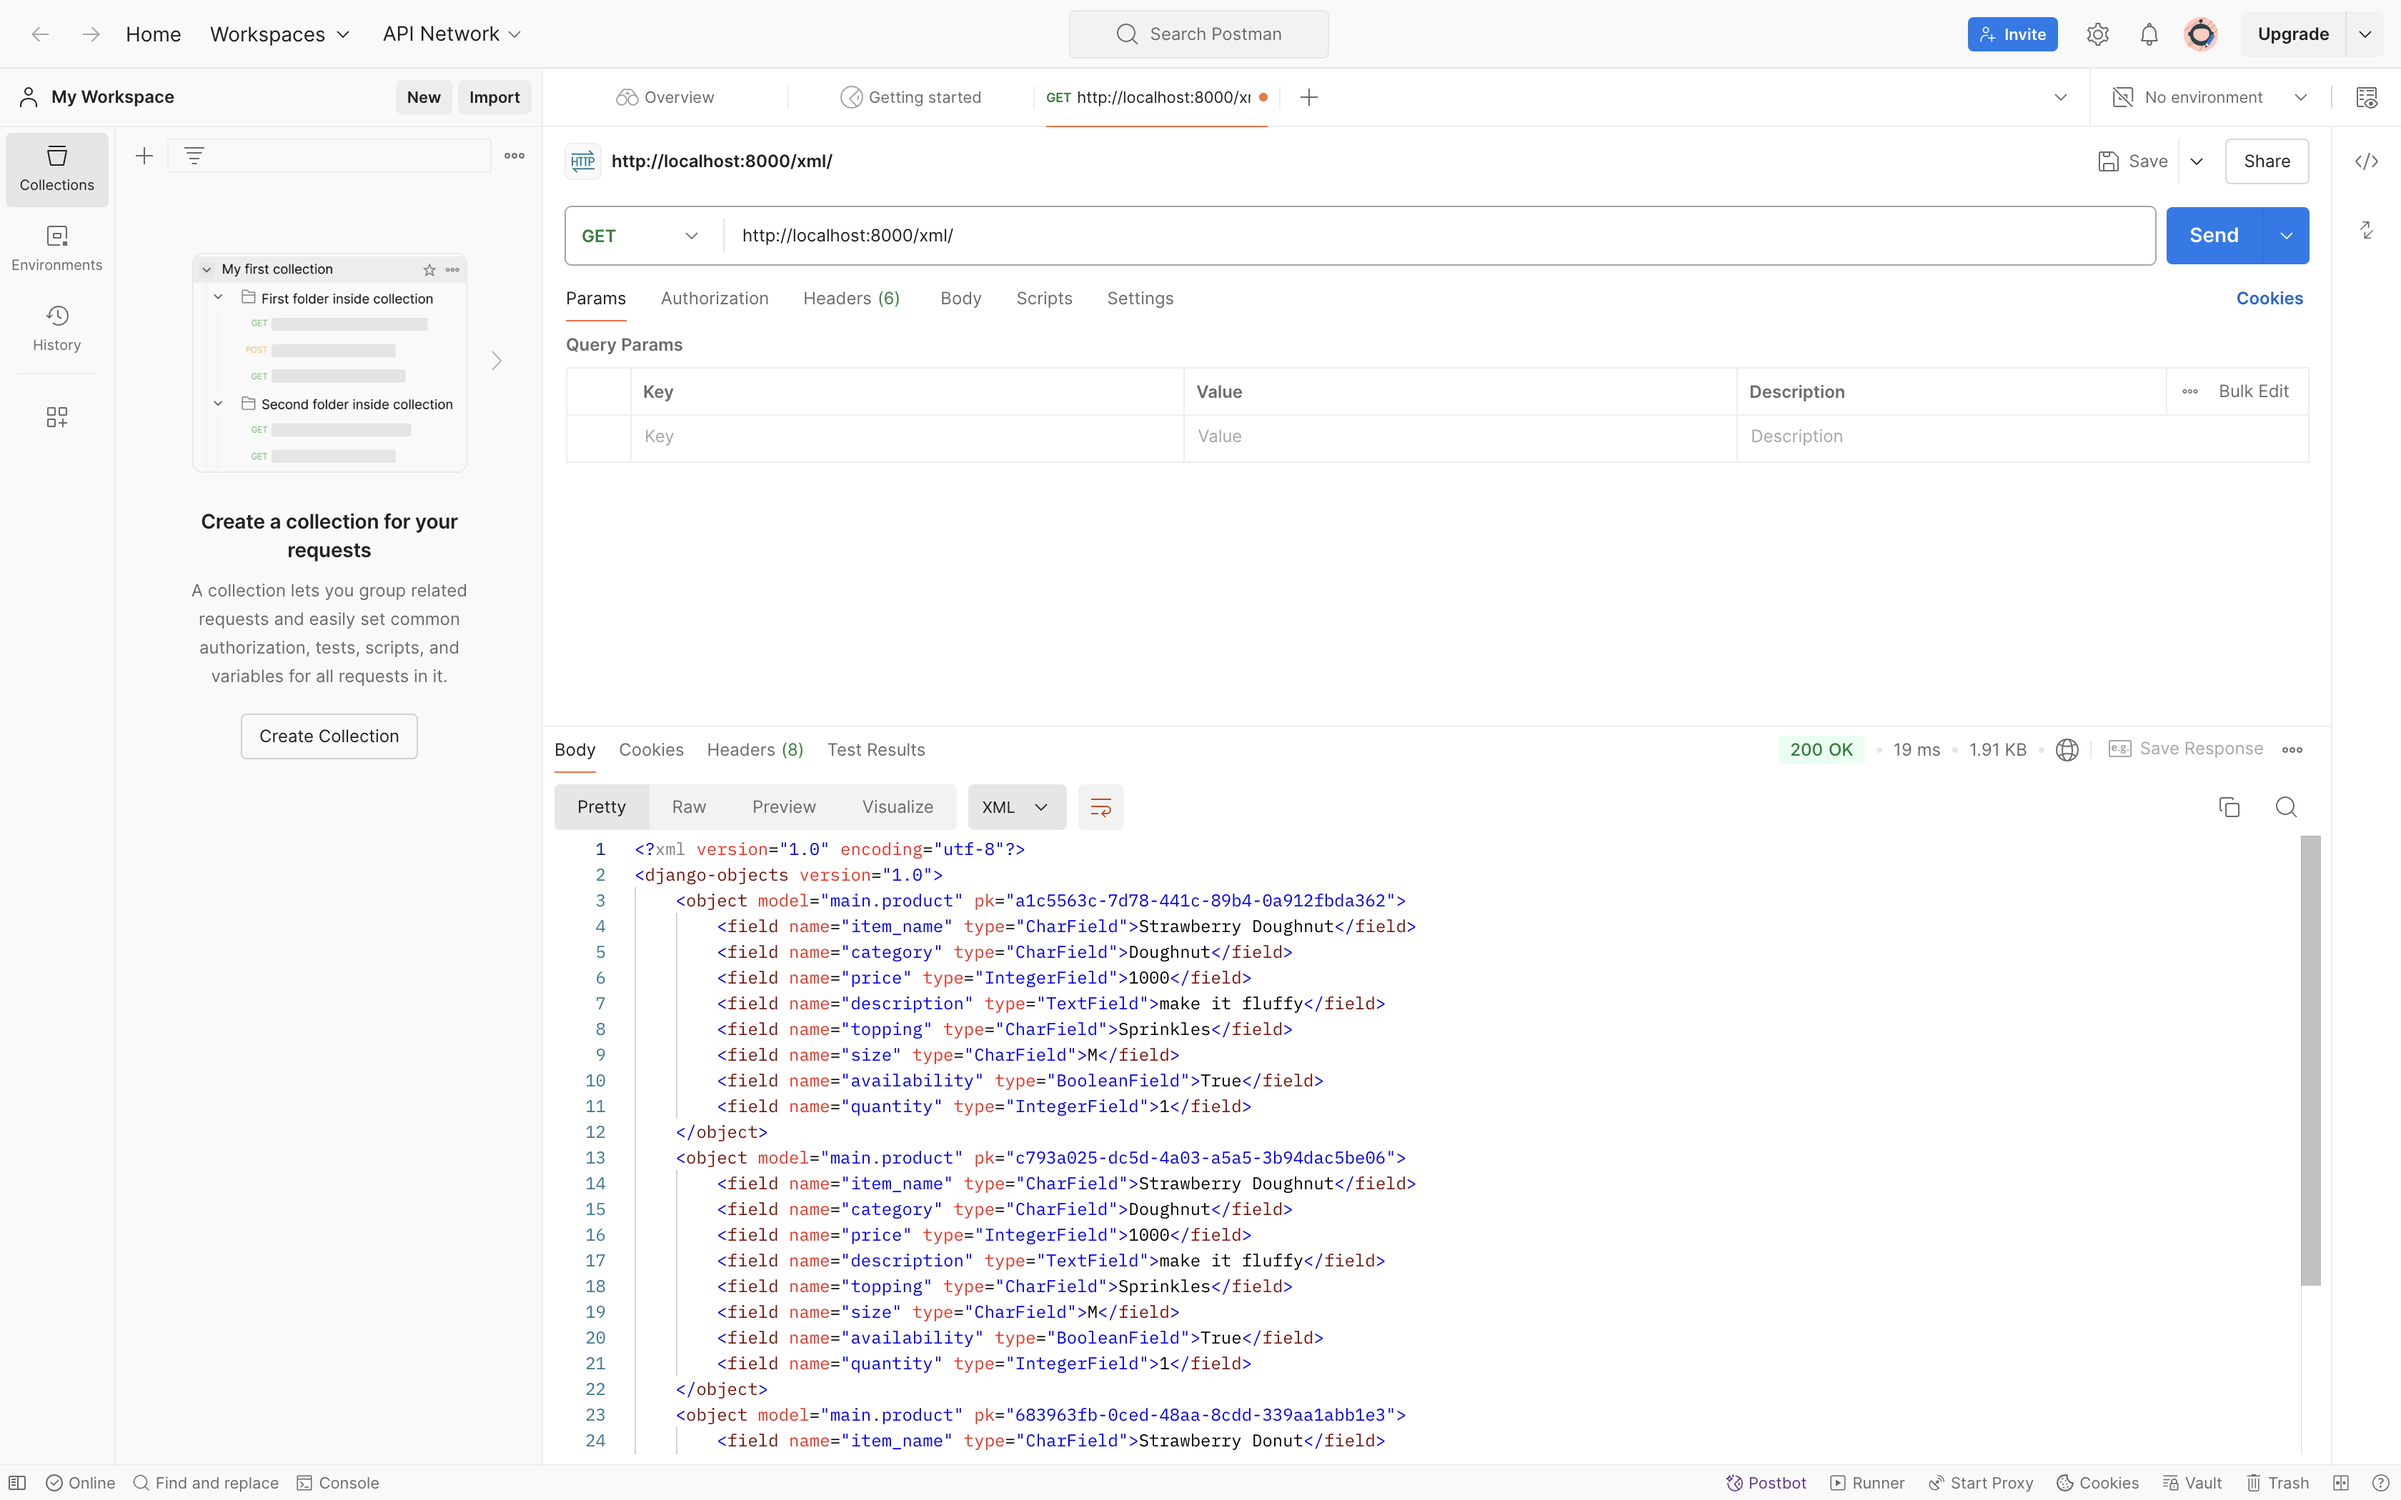
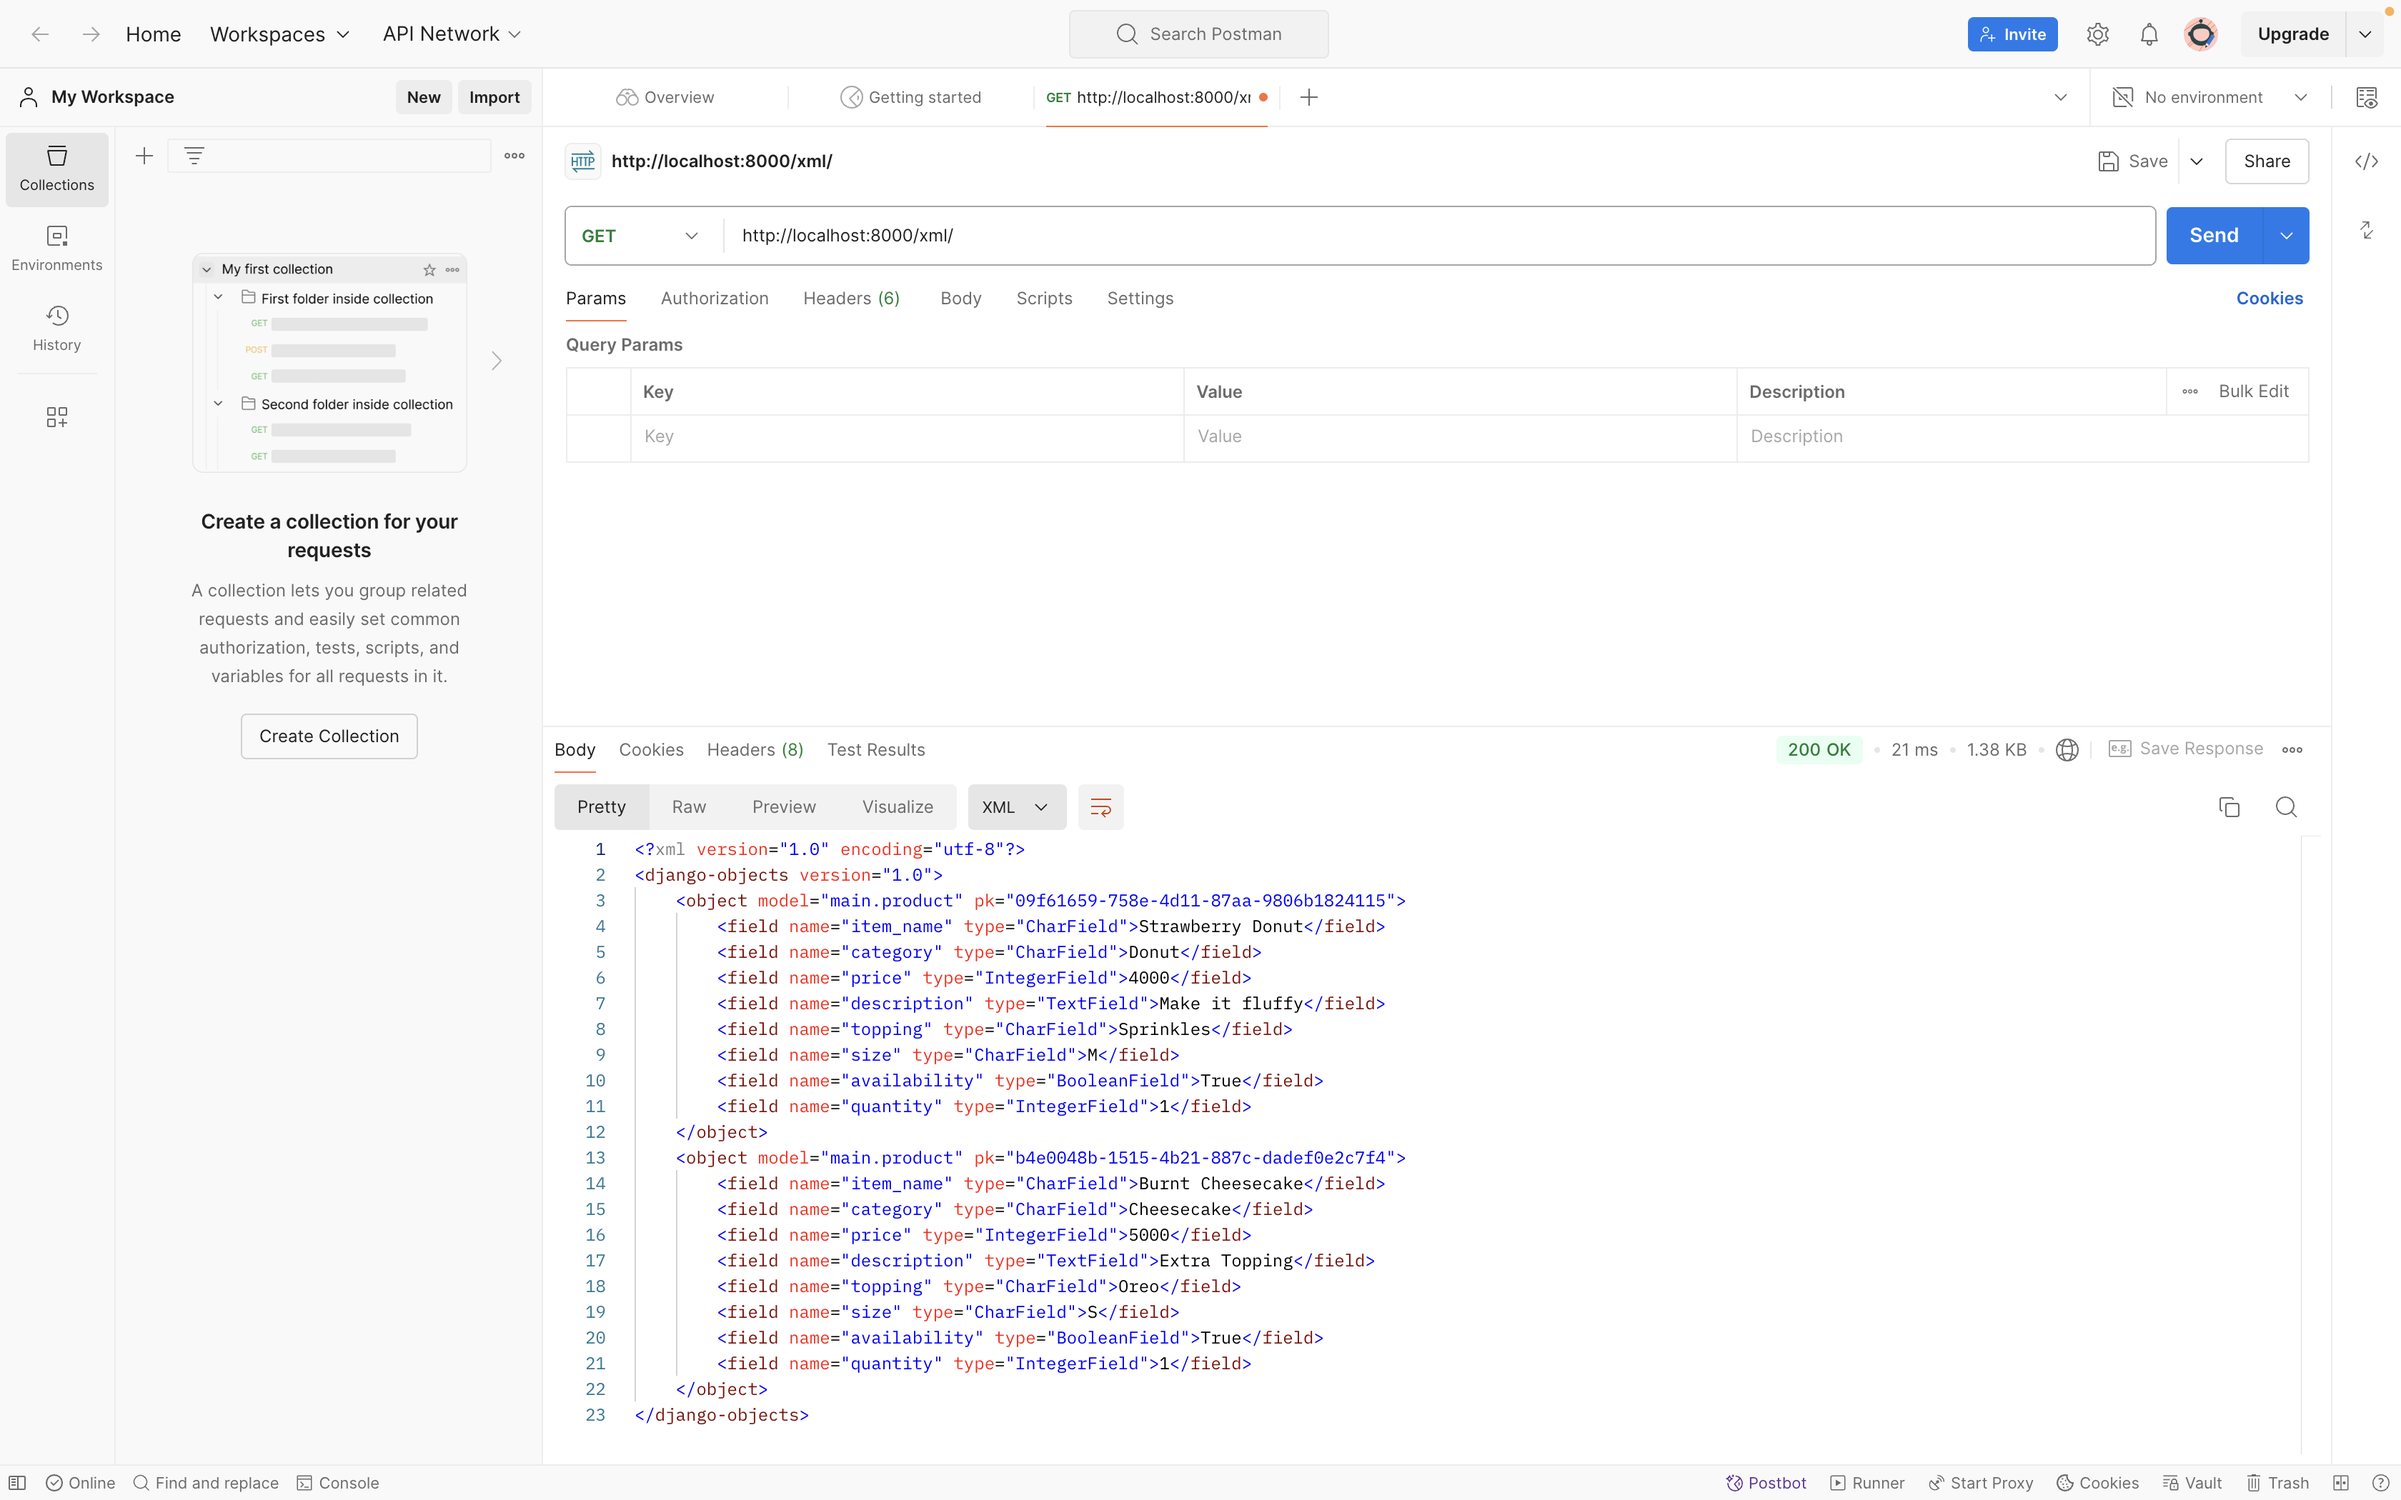
Add Postman screenshot

diff --git a/main/migrations/0001_initial.py b/main/migrations/0001_initial.py
@@ -1,5 +1,6 @@
-# Generated by Django 5.1.1 on 2024-09-08 13:54
+# Generated by Django 5.1.1 on 2024-09-17 14:16
 
+import uuid
 from django.db import migrations, models
 
 
@@ -12,13 +13,17 @@ class Migration(migrations.Migration):
 
     operations = [
         migrations.CreateModel(
-            name='MoodEntry',
+            name='Product',
             fields=[
-                ('id', models.BigAutoField(auto_created=True, primary_key=True, serialize=False, verbose_name='ID')),
-                ('mood', models.CharField(max_length=255)),
-                ('time', models.DateField(auto_now_add=True)),
-                ('feelings', models.TextField()),
-                ('mood_intensity', models.IntegerField()),
+                ('id', models.UUIDField(default=uuid.uuid4, editable=False, primary_key=True, serialize=False)),
+                ('item_name', models.CharField(max_length=100)),
+                ('category', models.CharField(choices=[('Donut', 'Donut'), ('Cheesecake', 'Cheesecake'), ('Cookies', 'Cookies')], default='Donut', max_length=50)),
+                ('price', models.IntegerField()),
+                ('description', models.TextField()),
+                ('topping', models.CharField(blank=True, default='', max_length=50)),
+                ('size', models.CharField(choices=[('S', 'Small'), ('M', 'Medium'), ('L', 'Large')], default='M', max_length=1)),
+                ('availability', models.BooleanField(default=True)),
+                ('quantity', models.IntegerField(default=1)),
             ],
         ),
     ]
